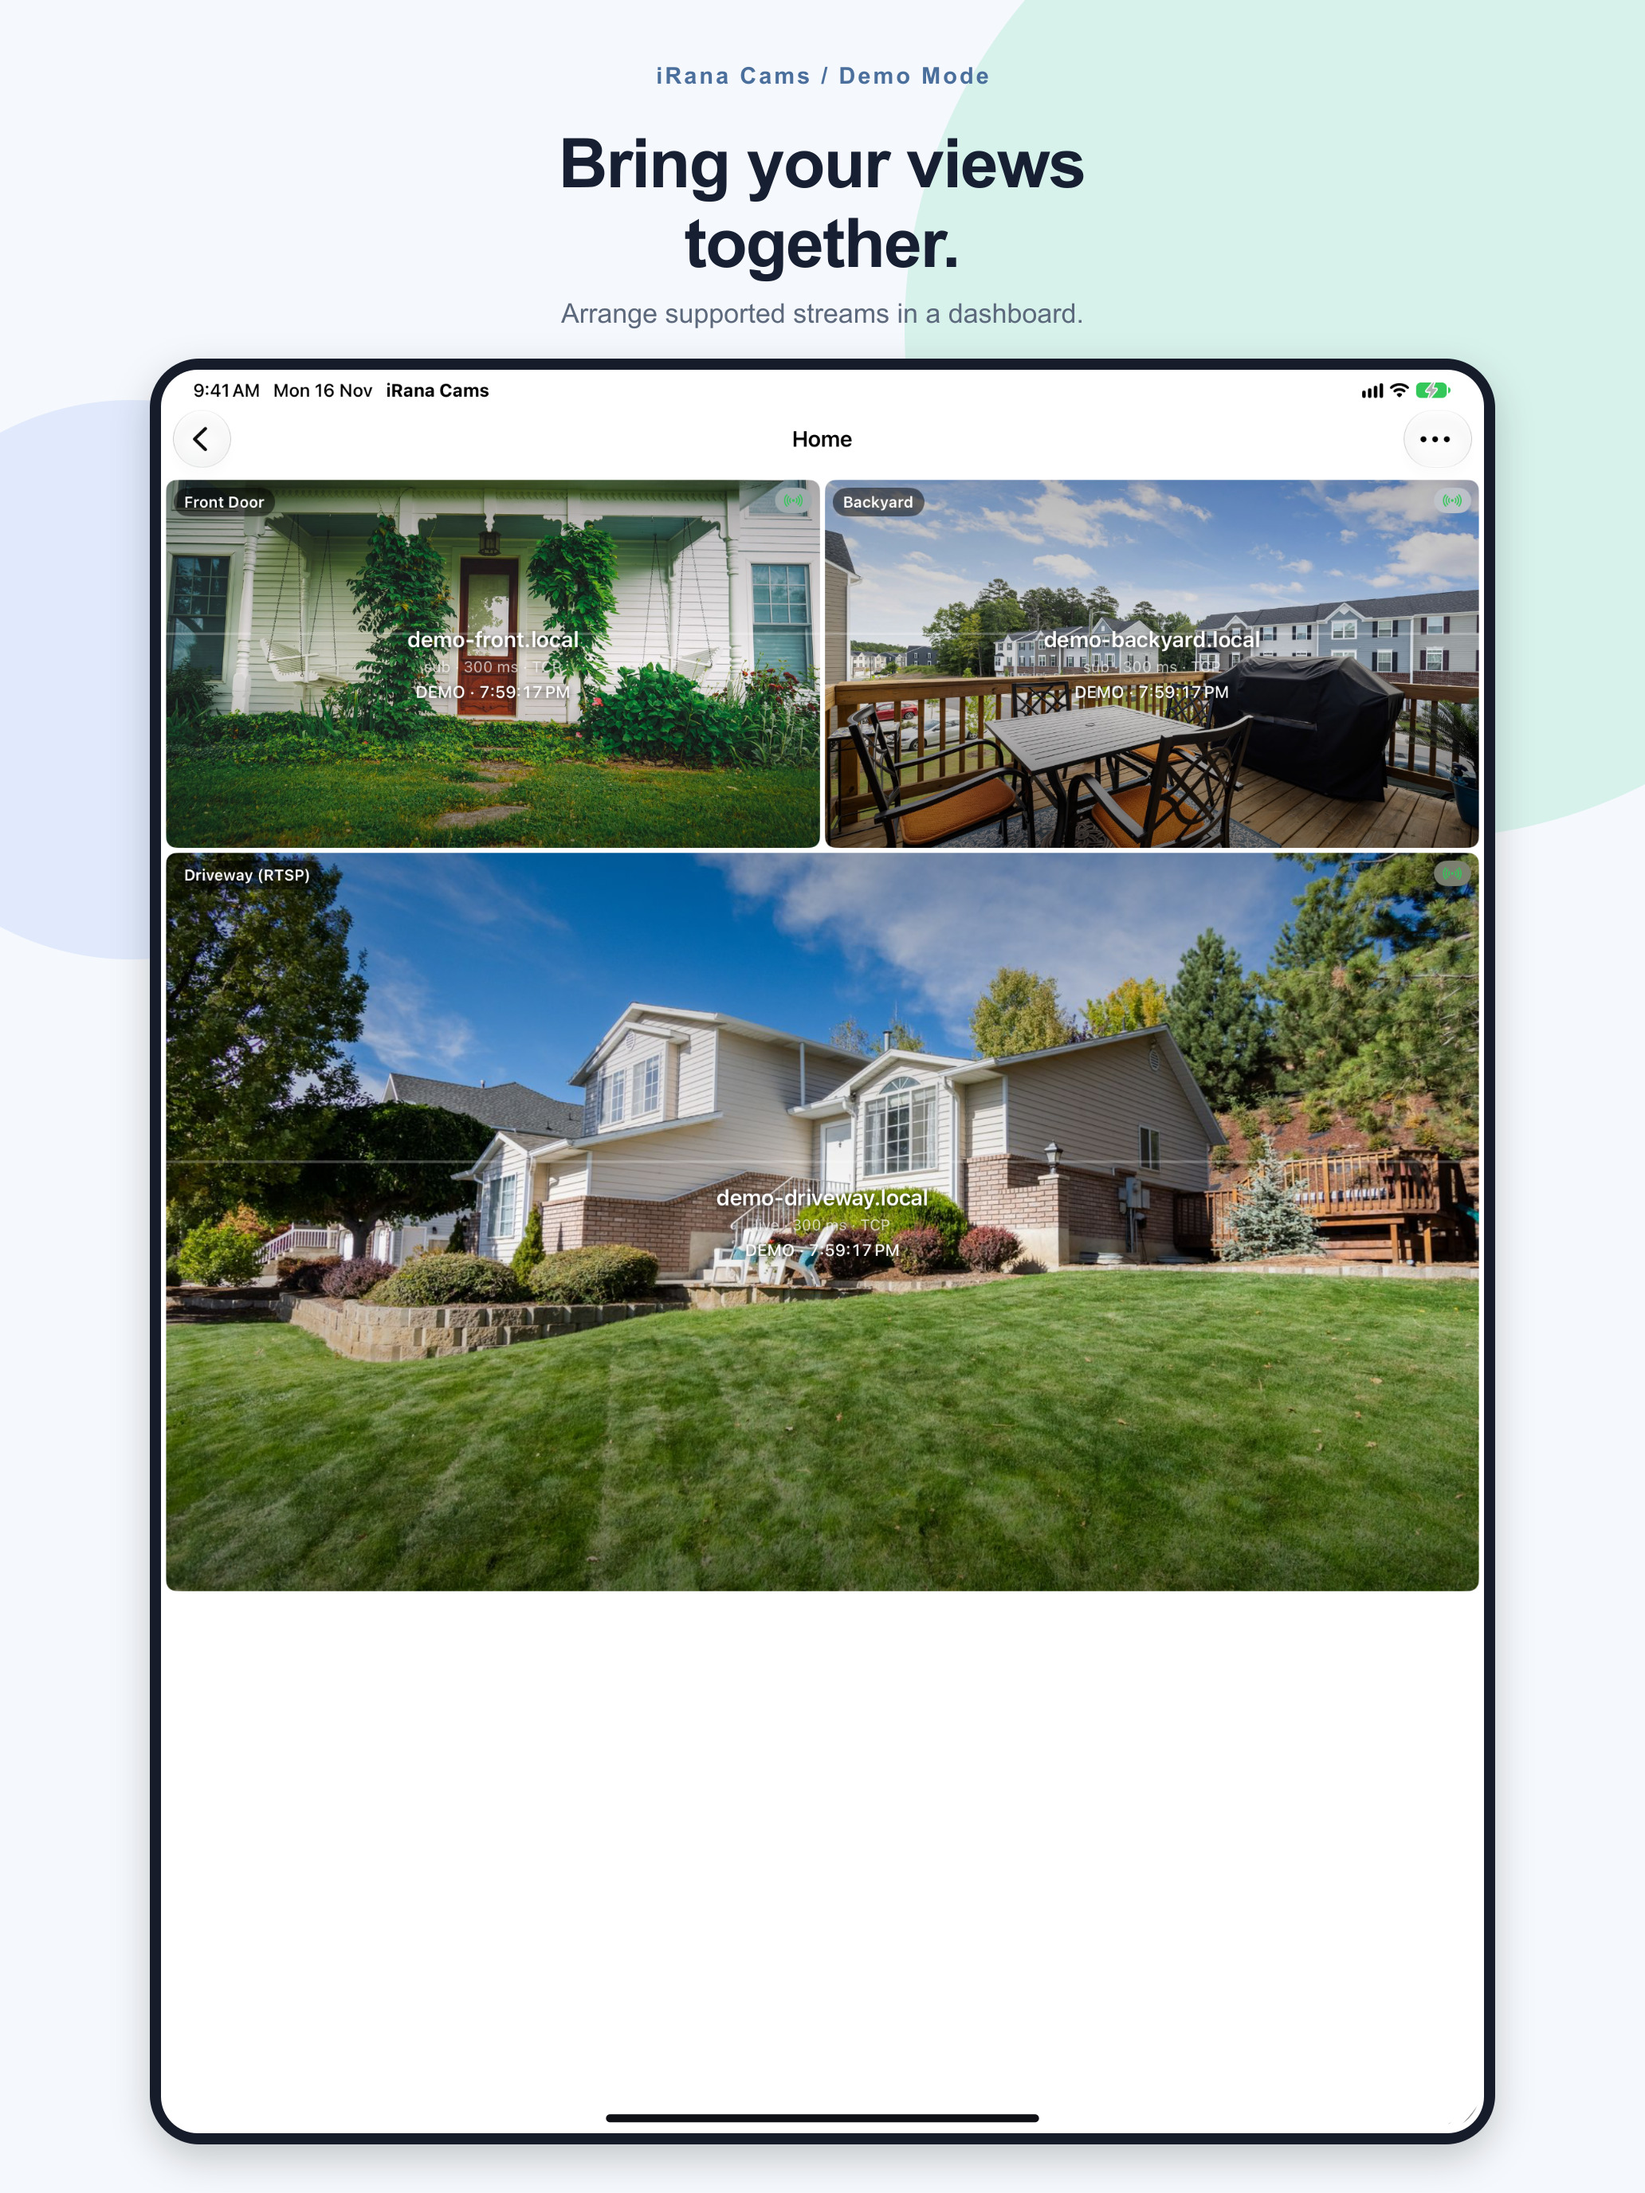
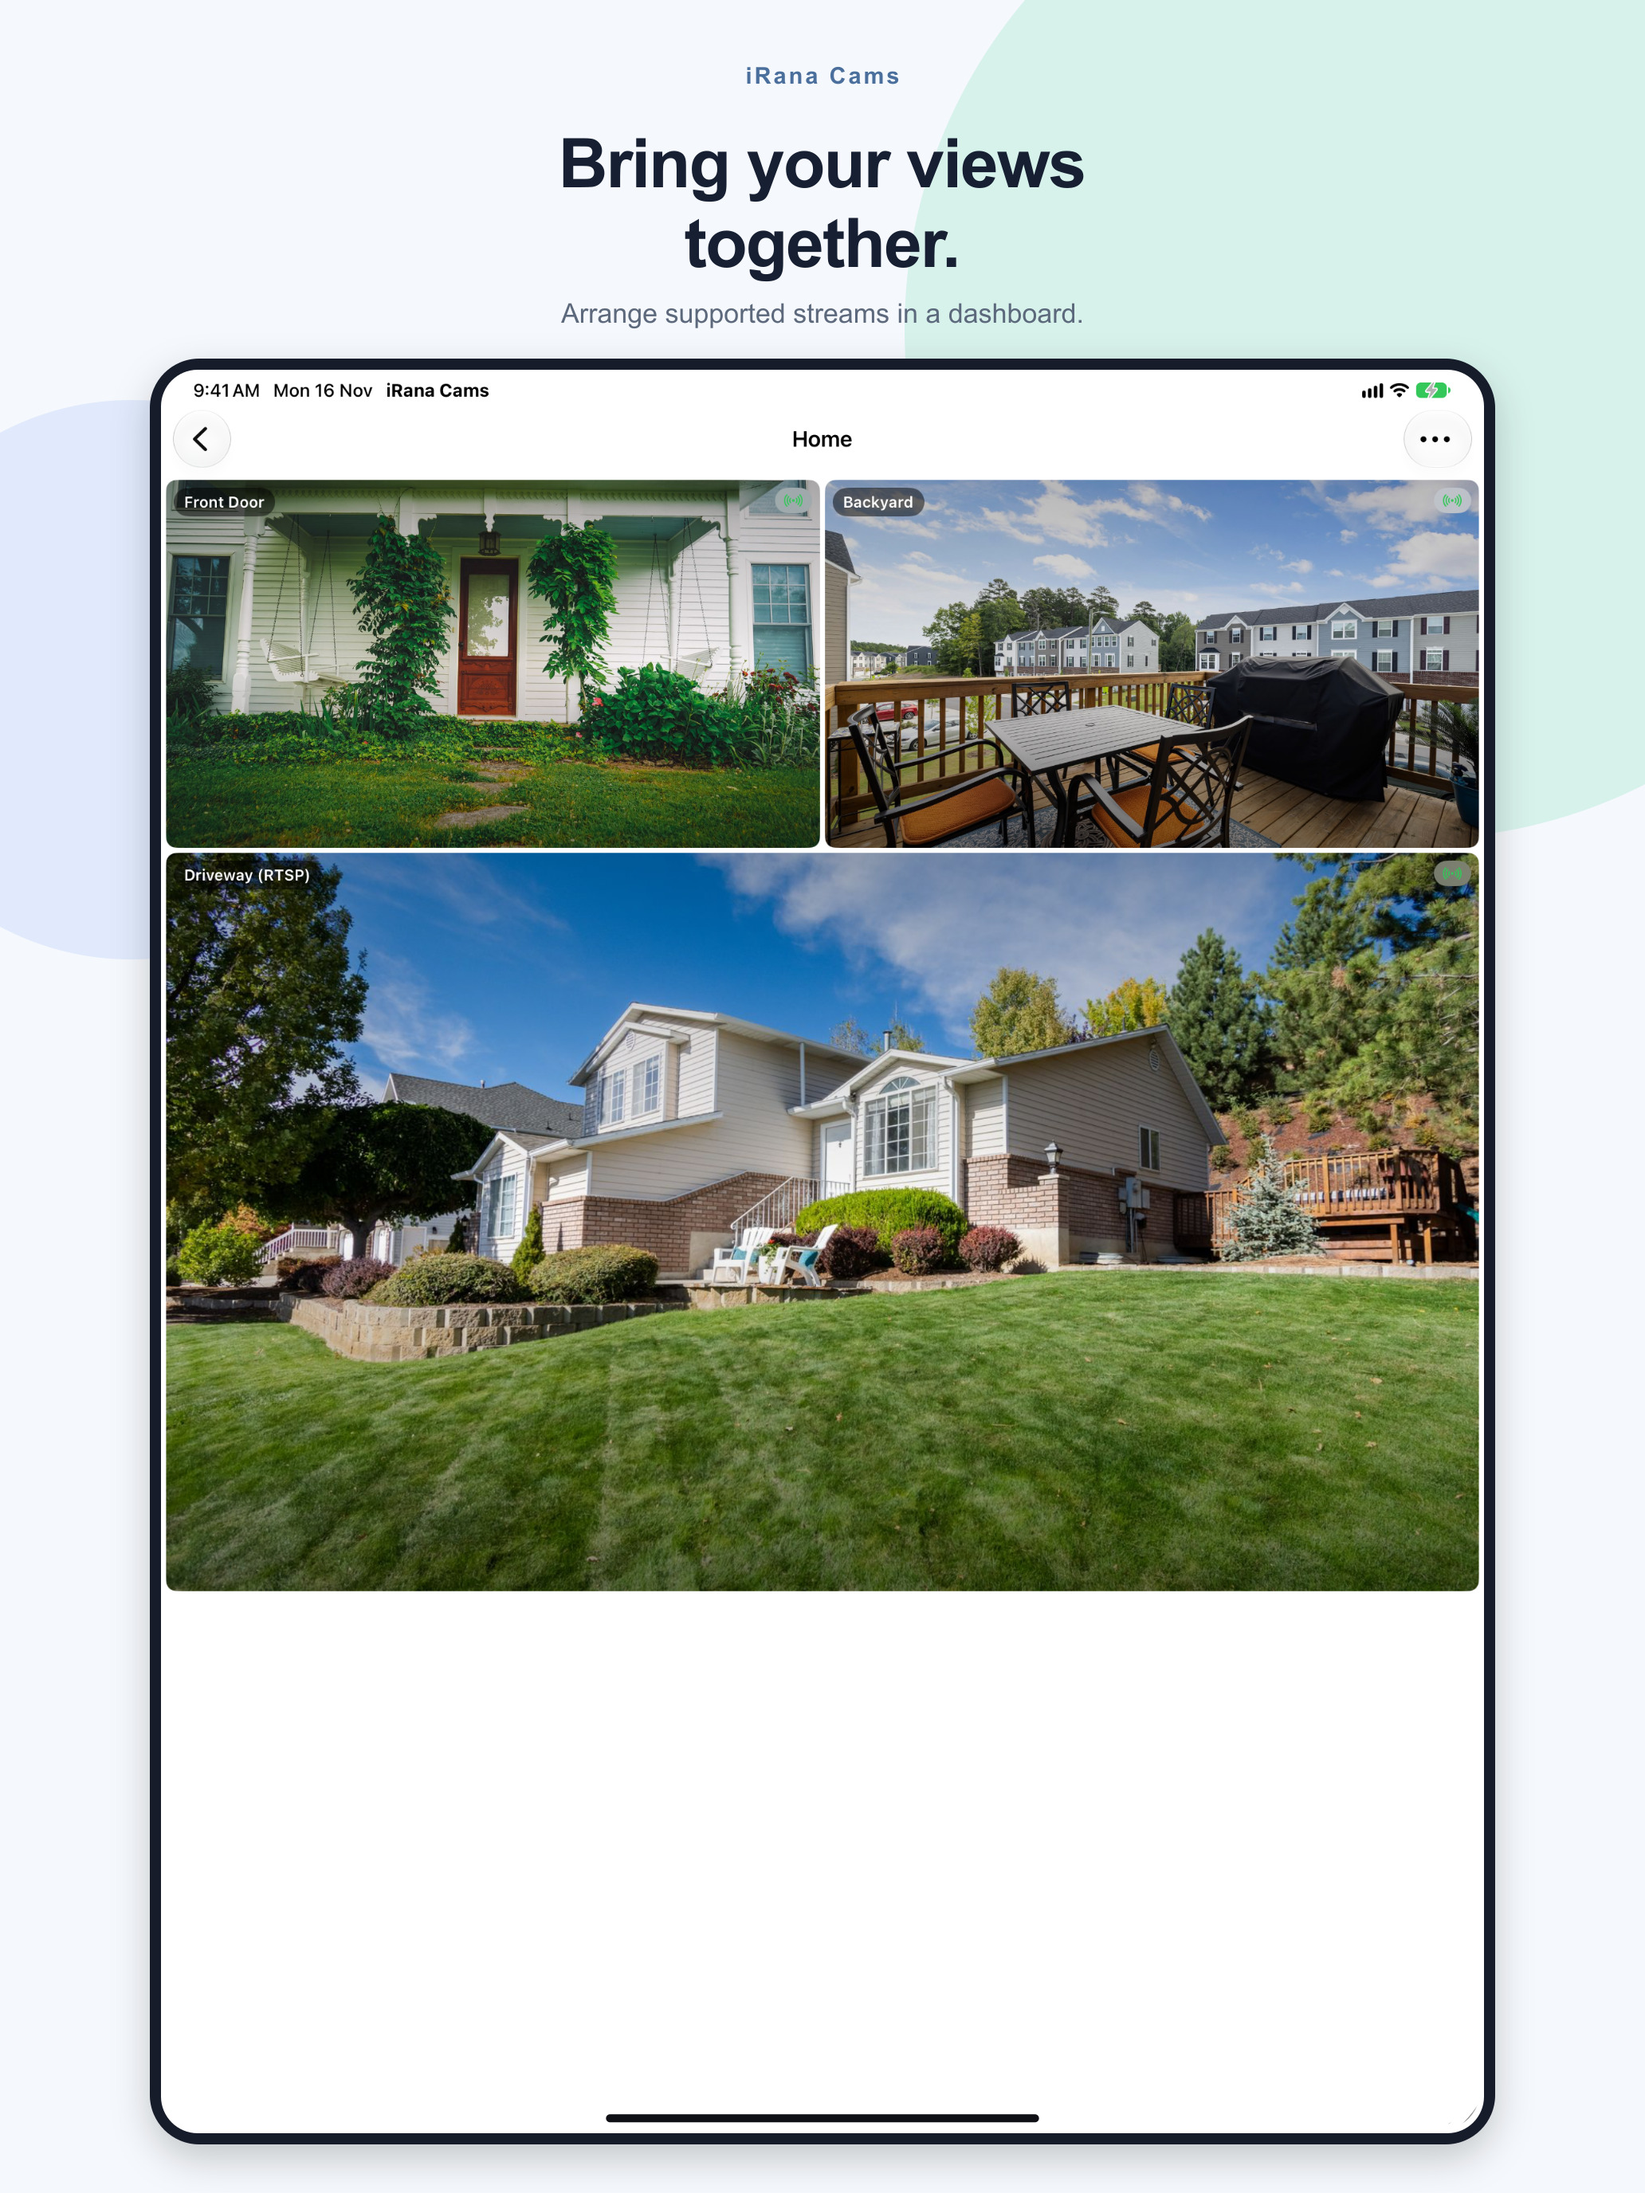
Update all images

diff --git a/scripts/build_store_screenshots.py b/scripts/build_store_screenshots.py
@@ -145,7 +145,7 @@ def screenshot_svg(
   <rect width="{width}" height="{height}" fill="#f5f8fc"/>
   <circle cx="{round(width * .86)}" cy="{round(height * .15)}" r="{round(width * .31)}" fill="#c6eee2" opacity=".65"/>
   <circle cx="{round(width * .08)}" cy="{round(height * .31)}" r="{round(width * .17)}" fill="#d9e5fc" opacity=".75"/>
-  <text x="{width // 2}" y="{device['eyebrow_y']}" text-anchor="middle" fill="#4a6f9c" font-family="Arial, Helvetica, sans-serif" font-size="29" font-weight="700" letter-spacing="3">iRana Cams  /  Demo Mode</text>
+  <text x="{width // 2}" y="{device['eyebrow_y']}" text-anchor="middle" fill="#4a6f9c" font-family="Arial, Helvetica, sans-serif" font-size="29" font-weight="700" letter-spacing="3">iRana Cams</text>
   <text x="{width // 2}" y="{device['title_y'][0]}" text-anchor="middle" fill="#172033" font-family="Arial, Helvetica, sans-serif" font-size="{device['title_size']}" font-weight="700" letter-spacing="-2">{title_one}</text>
   <text x="{width // 2}" y="{device['title_y'][1]}" text-anchor="middle" fill="#172033" font-family="Arial, Helvetica, sans-serif" font-size="{device['title_size']}" font-weight="700" letter-spacing="-2">{title_two}</text>
   <text x="{width // 2}" y="{device['subtitle_y']}" text-anchor="middle" fill="#5c687b" font-family="Arial, Helvetica, sans-serif" font-size="{device['subtitle_size']}">{subtitle}</text>
